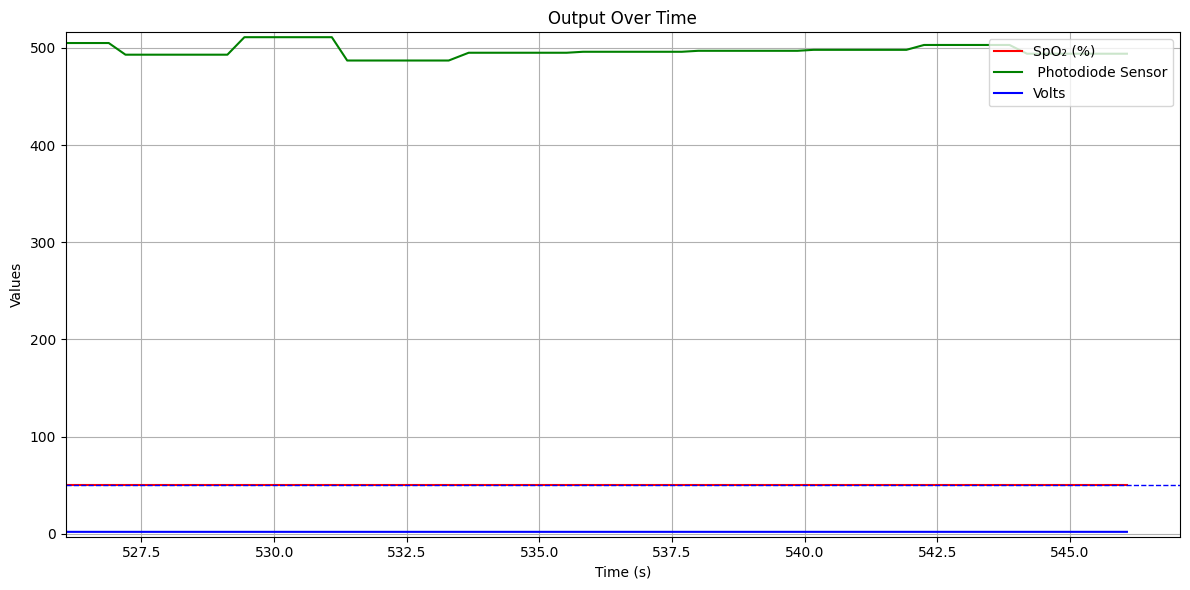
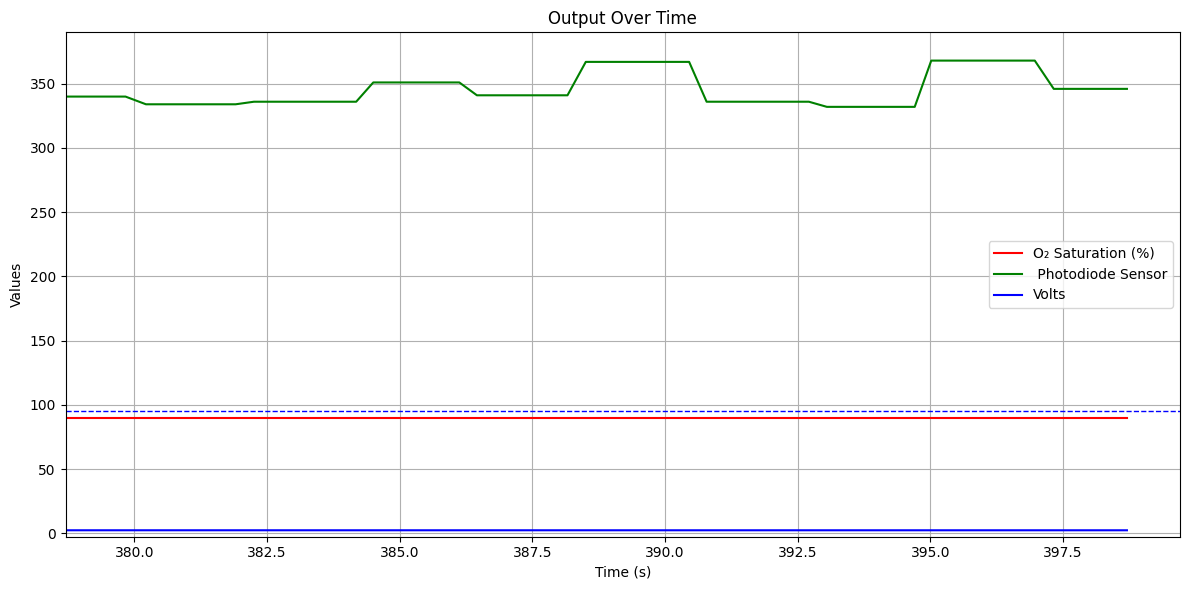
üpdate

diff --git a/templates/index.html b/templates/index.html
@@ -8,6 +8,7 @@
     <link href="https://fonts.googleapis.com/css2?family=Roboto:wght@400;700&display=swap" rel="stylesheet">
 </head>
 <body>
+    <div class="scale-wrapper">
     <!-- Header -->
     <header class="site-header">
         <div class="header-content">
@@ -41,7 +42,7 @@
         <main class="main-content">
             <!-- Sensor data card -->
             <div class="card">
-                <p><span class="label">Output:</span> <span class="value" id="rawValue">{{ raw }}</span></p>
+                <p><span class="label">Photodiode Output:</span> <span class="value" id="rawValue">{{ raw }}</span></p>
                 <p><span class="label">Volts (V):</span> <span class="value" id="odValue">{{ od }}</span></p>
                 <p><span class="label">PWM Duty Cycle:</span> <span class="value" id="pwmValue">{{ pwm }}</span></p>
             </div>
@@ -144,5 +145,6 @@
     }
     setInterval(refreshGraph, 2000);
 </script>
+</div>
 </body>
 </html>

diff --git a/static/style.css b/static/style.css
@@ -182,6 +182,7 @@ footer {
     padding: 20px;
     font-size: 0.9rem;
     color: #eee;
+	text-align: center;
 }
 
 /* Adjusting page container to allow for the header */
@@ -262,6 +263,7 @@ footer {
 }
 
 /* Adjust layout for small screens */
+/*
 @media screen and (max-width: 1024px) {
     .page-container {
         flex-direction: column;
@@ -285,4 +287,13 @@ footer {
     .graph-container {
         height: 300px;
     }
+}
+*/
+.scale-wrapper {
+    transform-origin: top center;
+    transform: scale(min(1, calc(100vw / 1200)));
+}
+
+body {
+    overflow-x: hidden;
 }

diff --git a/app.py b/app.py
@@ -51,9 +51,7 @@ def index():
 @app.route("/sensor-data")
 def sensor_data():
     with data_lock:
-        # Keep only the first line of latest_raw and strip CR/LF
-        #latest_raw_clean = latest_raw.splitlines()[0].replace("\r","").strip()
-        # Print current sensor values to terminal
+
         #print(f"[Sensor Data Requested] od={latest_od}, pwm={latest_pwm}, raw='{latest_raw}'", flush=True)
         return jsonify({
             "od": latest_od,
@@ -146,7 +144,7 @@ def satugraph():
     fig, ax = plt.subplots(figsize=(12, 6))
 
     # Lines
-    line_spo2, = ax.plot([], [], 'r-', label="SpO₂ (%)")
+    line_spo2, = ax.plot([], [], 'r-', label="O₂ Saturation (%)")
     line_raw, = ax.plot([], [], 'g-', label=" Photodiode Sensor")
     line_od, = ax.plot([], [], 'b-', label="Volts")
 
@@ -155,14 +153,14 @@ def satugraph():
     ax.set_ylabel("Values")
     ax.set_title("Output Over Time")
     ax.grid(True)
-    ax.legend(loc='upper right')
+    ax.legend(loc='upper right', bbox_to_anchor=(1, 0.6))
 
-    # Optional: draw a reference line for SpO₂ ~50%
-    ax.axhline(50, color='blue', linestyle='--', linewidth=1, label="50% reference")
+    # Optional: draw a reference line for SpO₂ ~100%
+    ax.axhline(95, color='blue', linestyle='--', linewidth=1, label="100% reference")
 
     def od_to_spo2(od):
         # placeholder conversion
-        return max(50, min(100, 100 - (od - 0.1) * 55))
+        return max(90, min(100, 100 - (od - 0.1) * 98))
 
     while True:
         with data_lock:

diff --git a/src/main.cpp b/src/main.cpp
@@ -35,7 +35,7 @@ unsigned long roundTripTime;
 
 // TCP Client
 WiFiClient tcpClient; // global
-const char* FLASK_IP = "192.168.17.46"; // Replace with your Flask PC IP
+const char* FLASK_IP = "192.168.16.178"; // Replace with your Flask PC IP
 const int FLASK_TCP_PORT = 5001;
 
 // Single sensor setup
@@ -148,8 +148,6 @@ void loop() {
     // Map OD to PWM duty cycle (scale 0.0–1.0 OD → 0–255)
     //dutyCycle = constrain((int)(OD * 255), 0, 255);
 	dutyCycle = map(OD, 0, 2.6, 0, 255); // Mapping OD to PWM values (adjust the OD range as needed)
-	//int pwmDutyCycle = (millis() % 255);  // Create a sine-wave-like modulation
-	//dutyCycle = (millis() % 255);  // Create a sine-wave-like modulation
     ledcWrite(pwmChannel, dutyCycle);
 
     // Handle HTTP server
